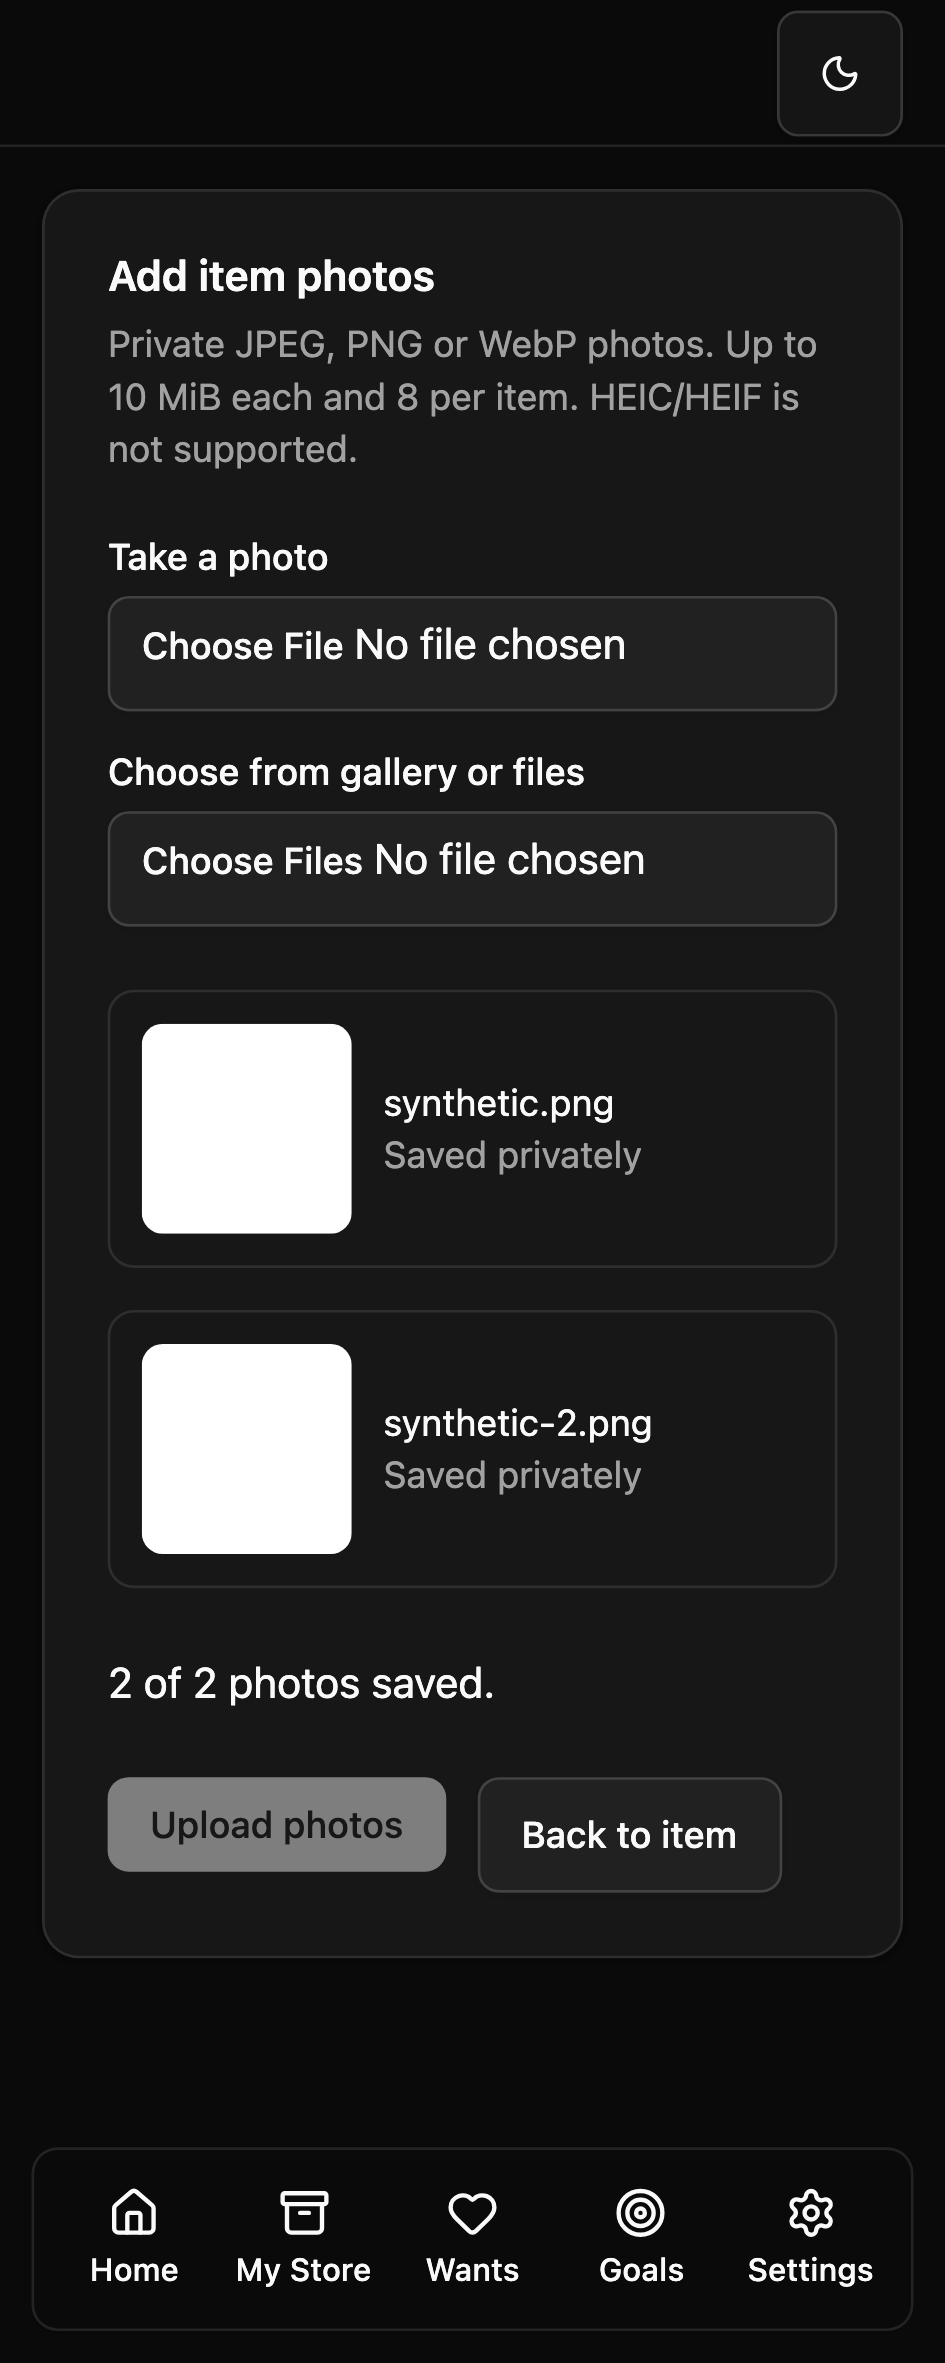
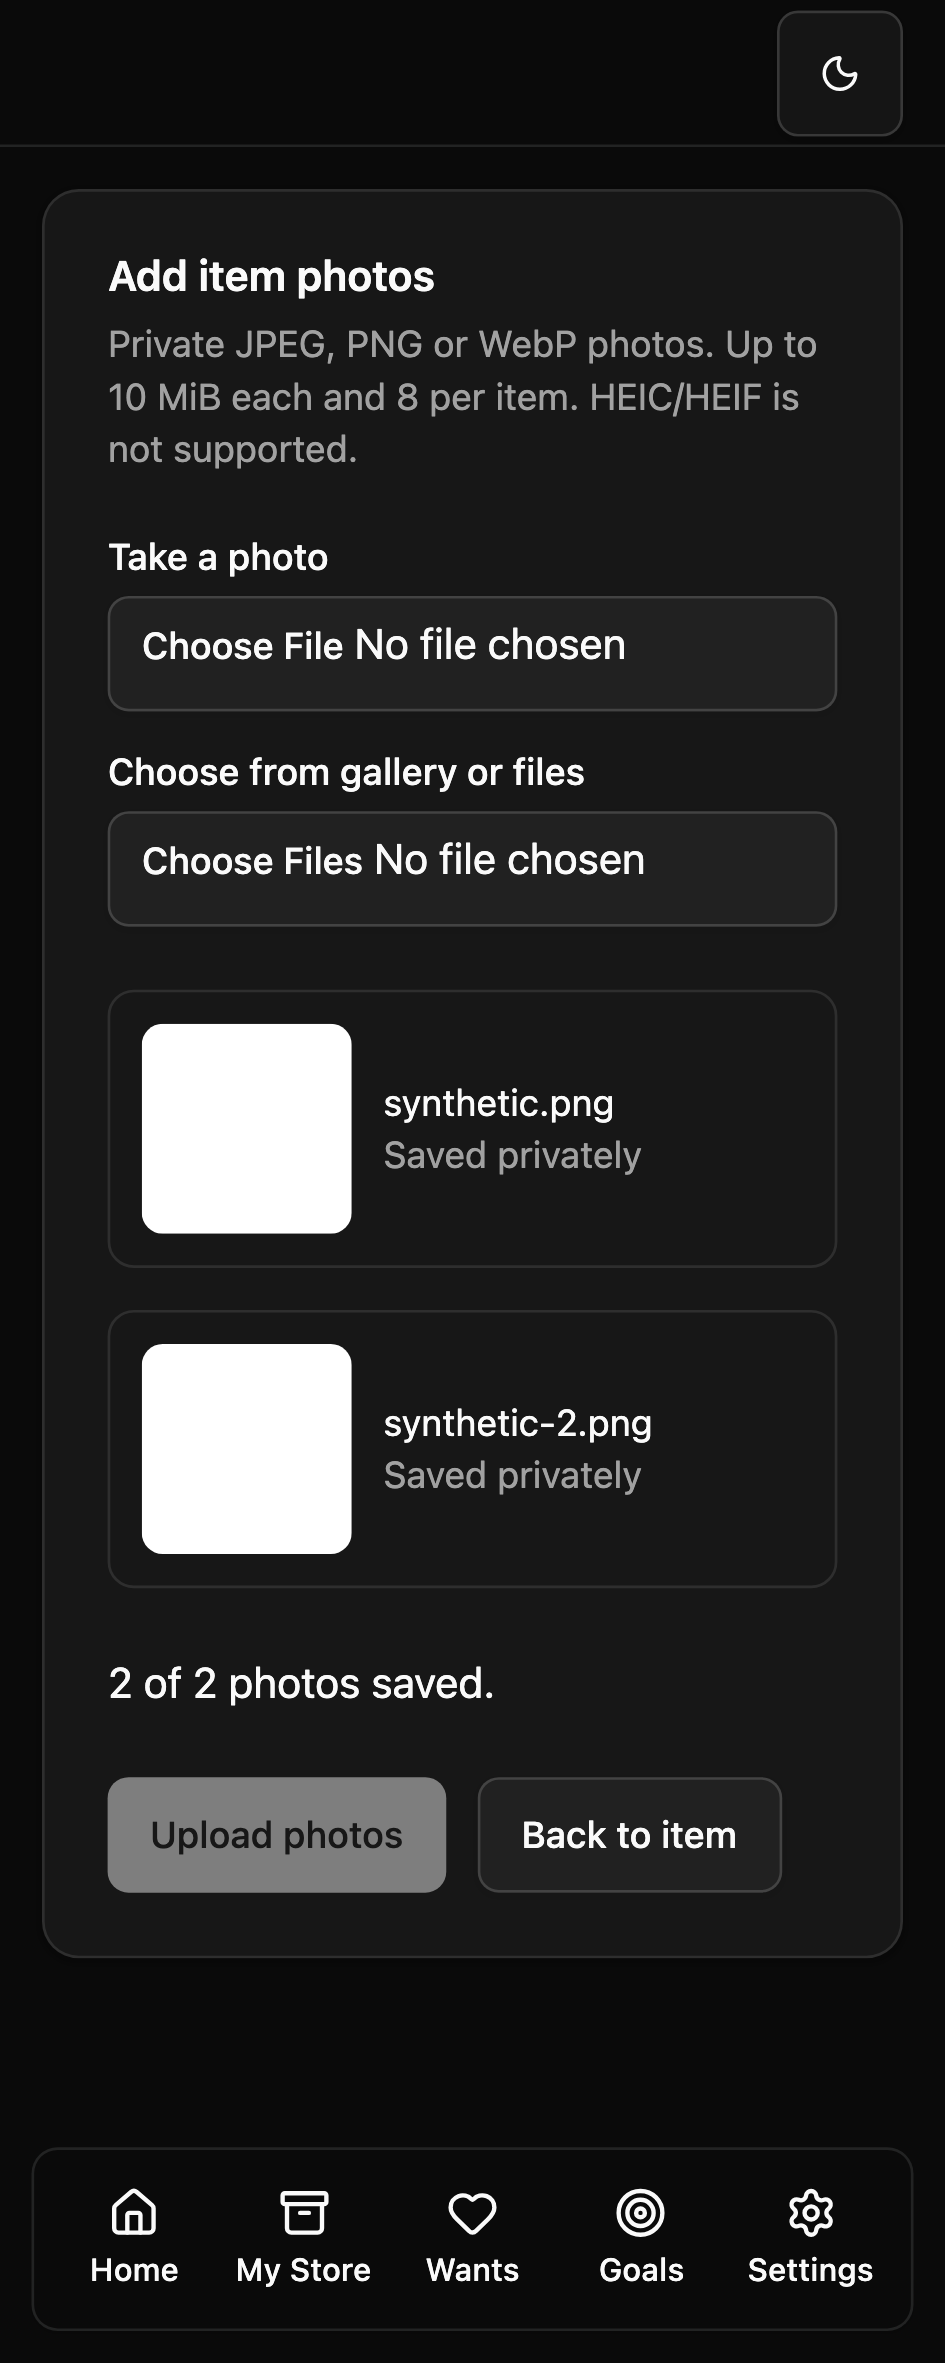
test(PER-13): verify distinct animated frames and final capture evidence

Changed region(s): [[0.1228, 0.7723, 0.491, 0.8032]]

diff --git a/apps/api/src/media/photo-processing.spec.ts b/apps/api/src/media/photo-processing.spec.ts
@@ -119,7 +119,12 @@ describe('photo decoding and sanitization', () => {
   });
   it('rejects successfully decoded animated WebP', async () => {
     const frame = await fixture().png().toBuffer();
-    const bytes = await sharp([frame, frame], { join: { animated: true } })
+    const second = await sharp({
+      create: { width: 640, height: 480, channels: 3, background: '#123456' },
+    })
+      .png()
+      .toBuffer();
+    const bytes = await sharp([frame, second], { join: { animated: true } })
       .webp({ loop: 0, delay: [100, 100] })
       .toBuffer();
     expect((await sharp(bytes).metadata()).pages).toBe(2);
